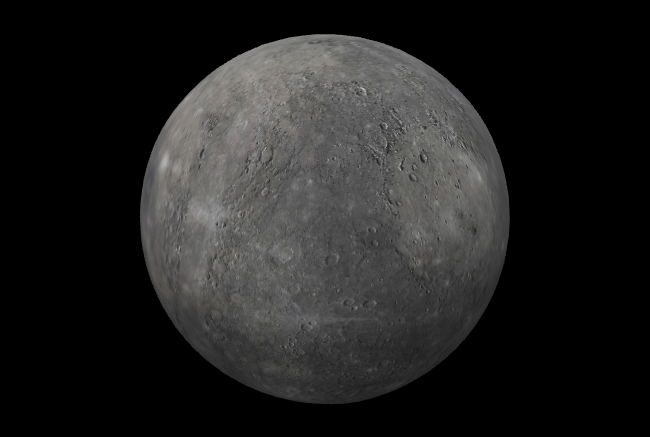
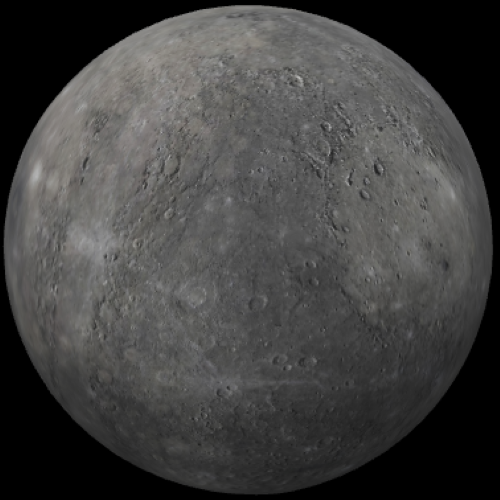
style and image size update

diff --git a/lab5.html b/lab5.html
@@ -18,7 +18,7 @@
     <tr>
       <td>Images of Planets</td>
       <td><img src="images/mercury.png" alt="The planet mercury."></td>
-      <td><img src="images/venus.jpeg" alt="The planet venus."></td>
+      <td><img src="images/venus.jpg" alt="The planet venus."></td>
       <td><img src="images/mars.jpg" alt="The planet mars"></td>
       <td><img src="images/Jupiter.jpg" alt="The planet jupiter."></td>
     </tr>

diff --git a/css/style.css b/css/style.css
@@ -1,0 +1,22 @@
+tbody td{
+  padding: 15px 10px;
+  text-align: center;
+}
+
+tbody tr:nth-child(odd){
+  background-color: #1d3f5c;
+  color: white;
+}
+tbody tr:nth-child(even){
+  background-color: black;
+  color: white;
+}
+
+img {
+  max-width: 100%;
+  height: auto;
+}
+
+body{
+  background-color:azure;
+}

diff --git a/style.css b/style.css
@@ -1,0 +1,13 @@
+tbody td{
+  padding: 15px 10px;
+}
+
+tbody tr:nth-child(odd){
+  background-color: #61a4be;
+  color: #c1c7ae;
+}
+
+img {
+    max-width: 50%;
+    height: auto;
+  }
